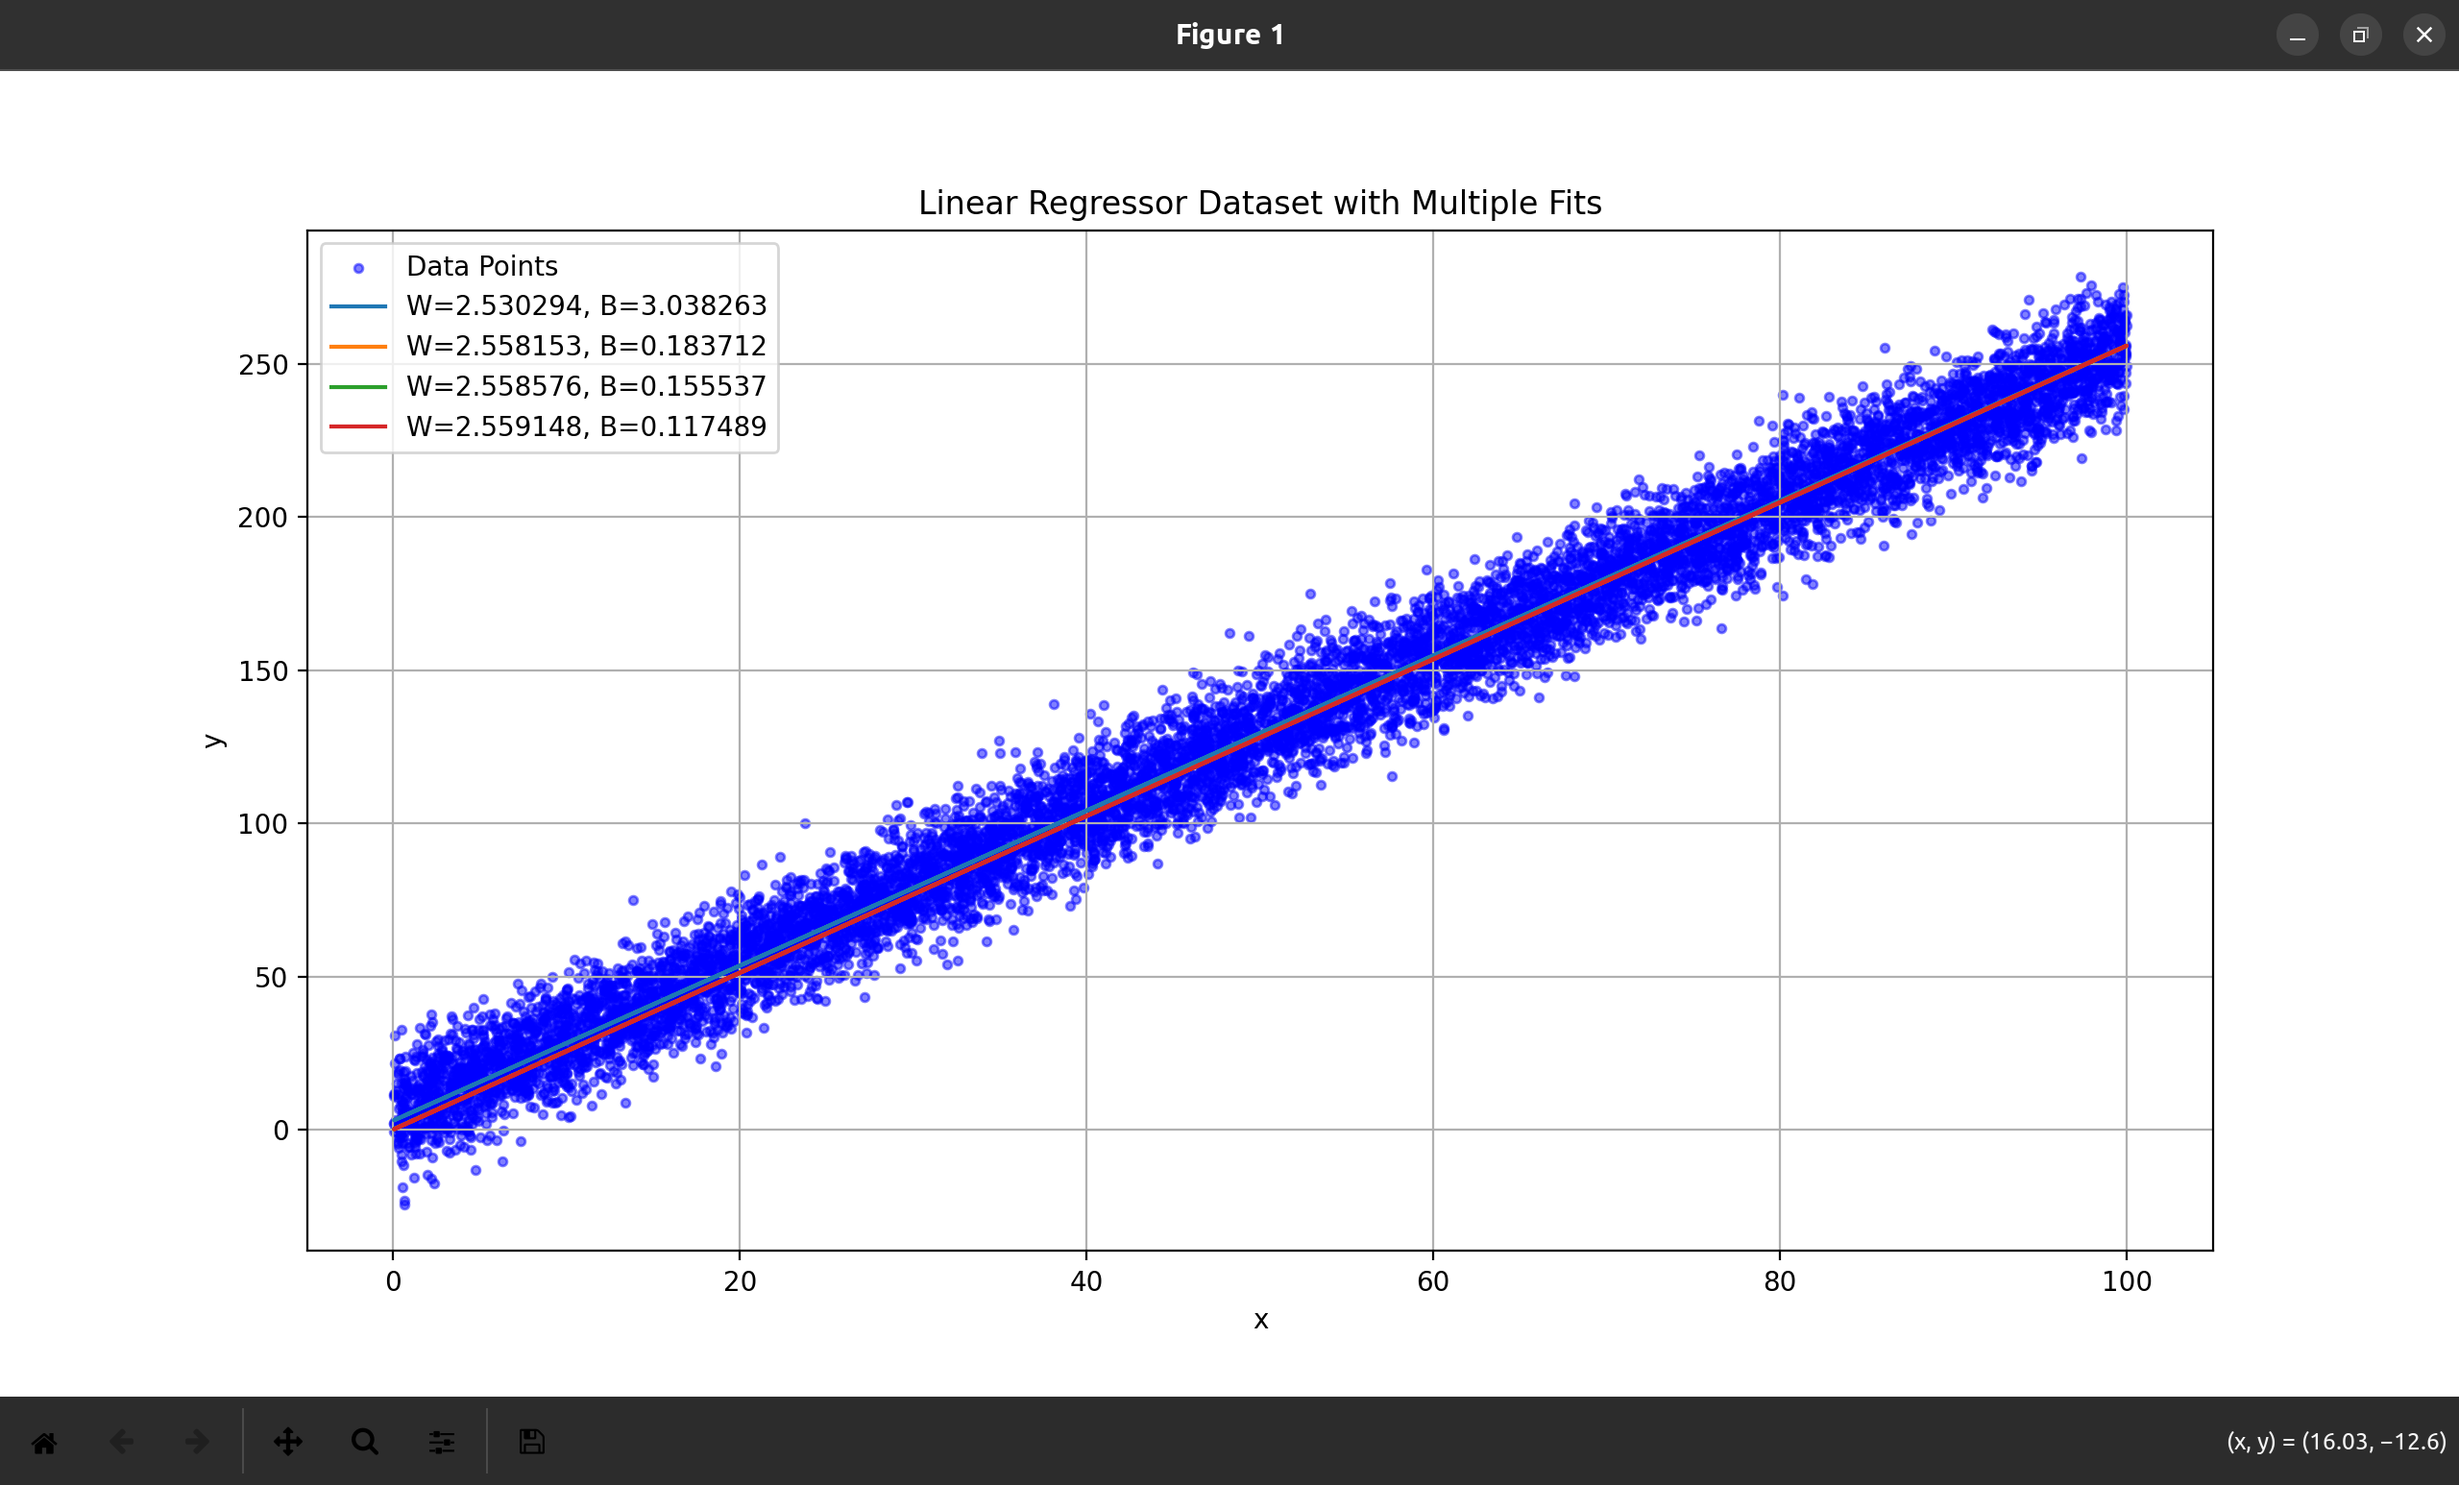
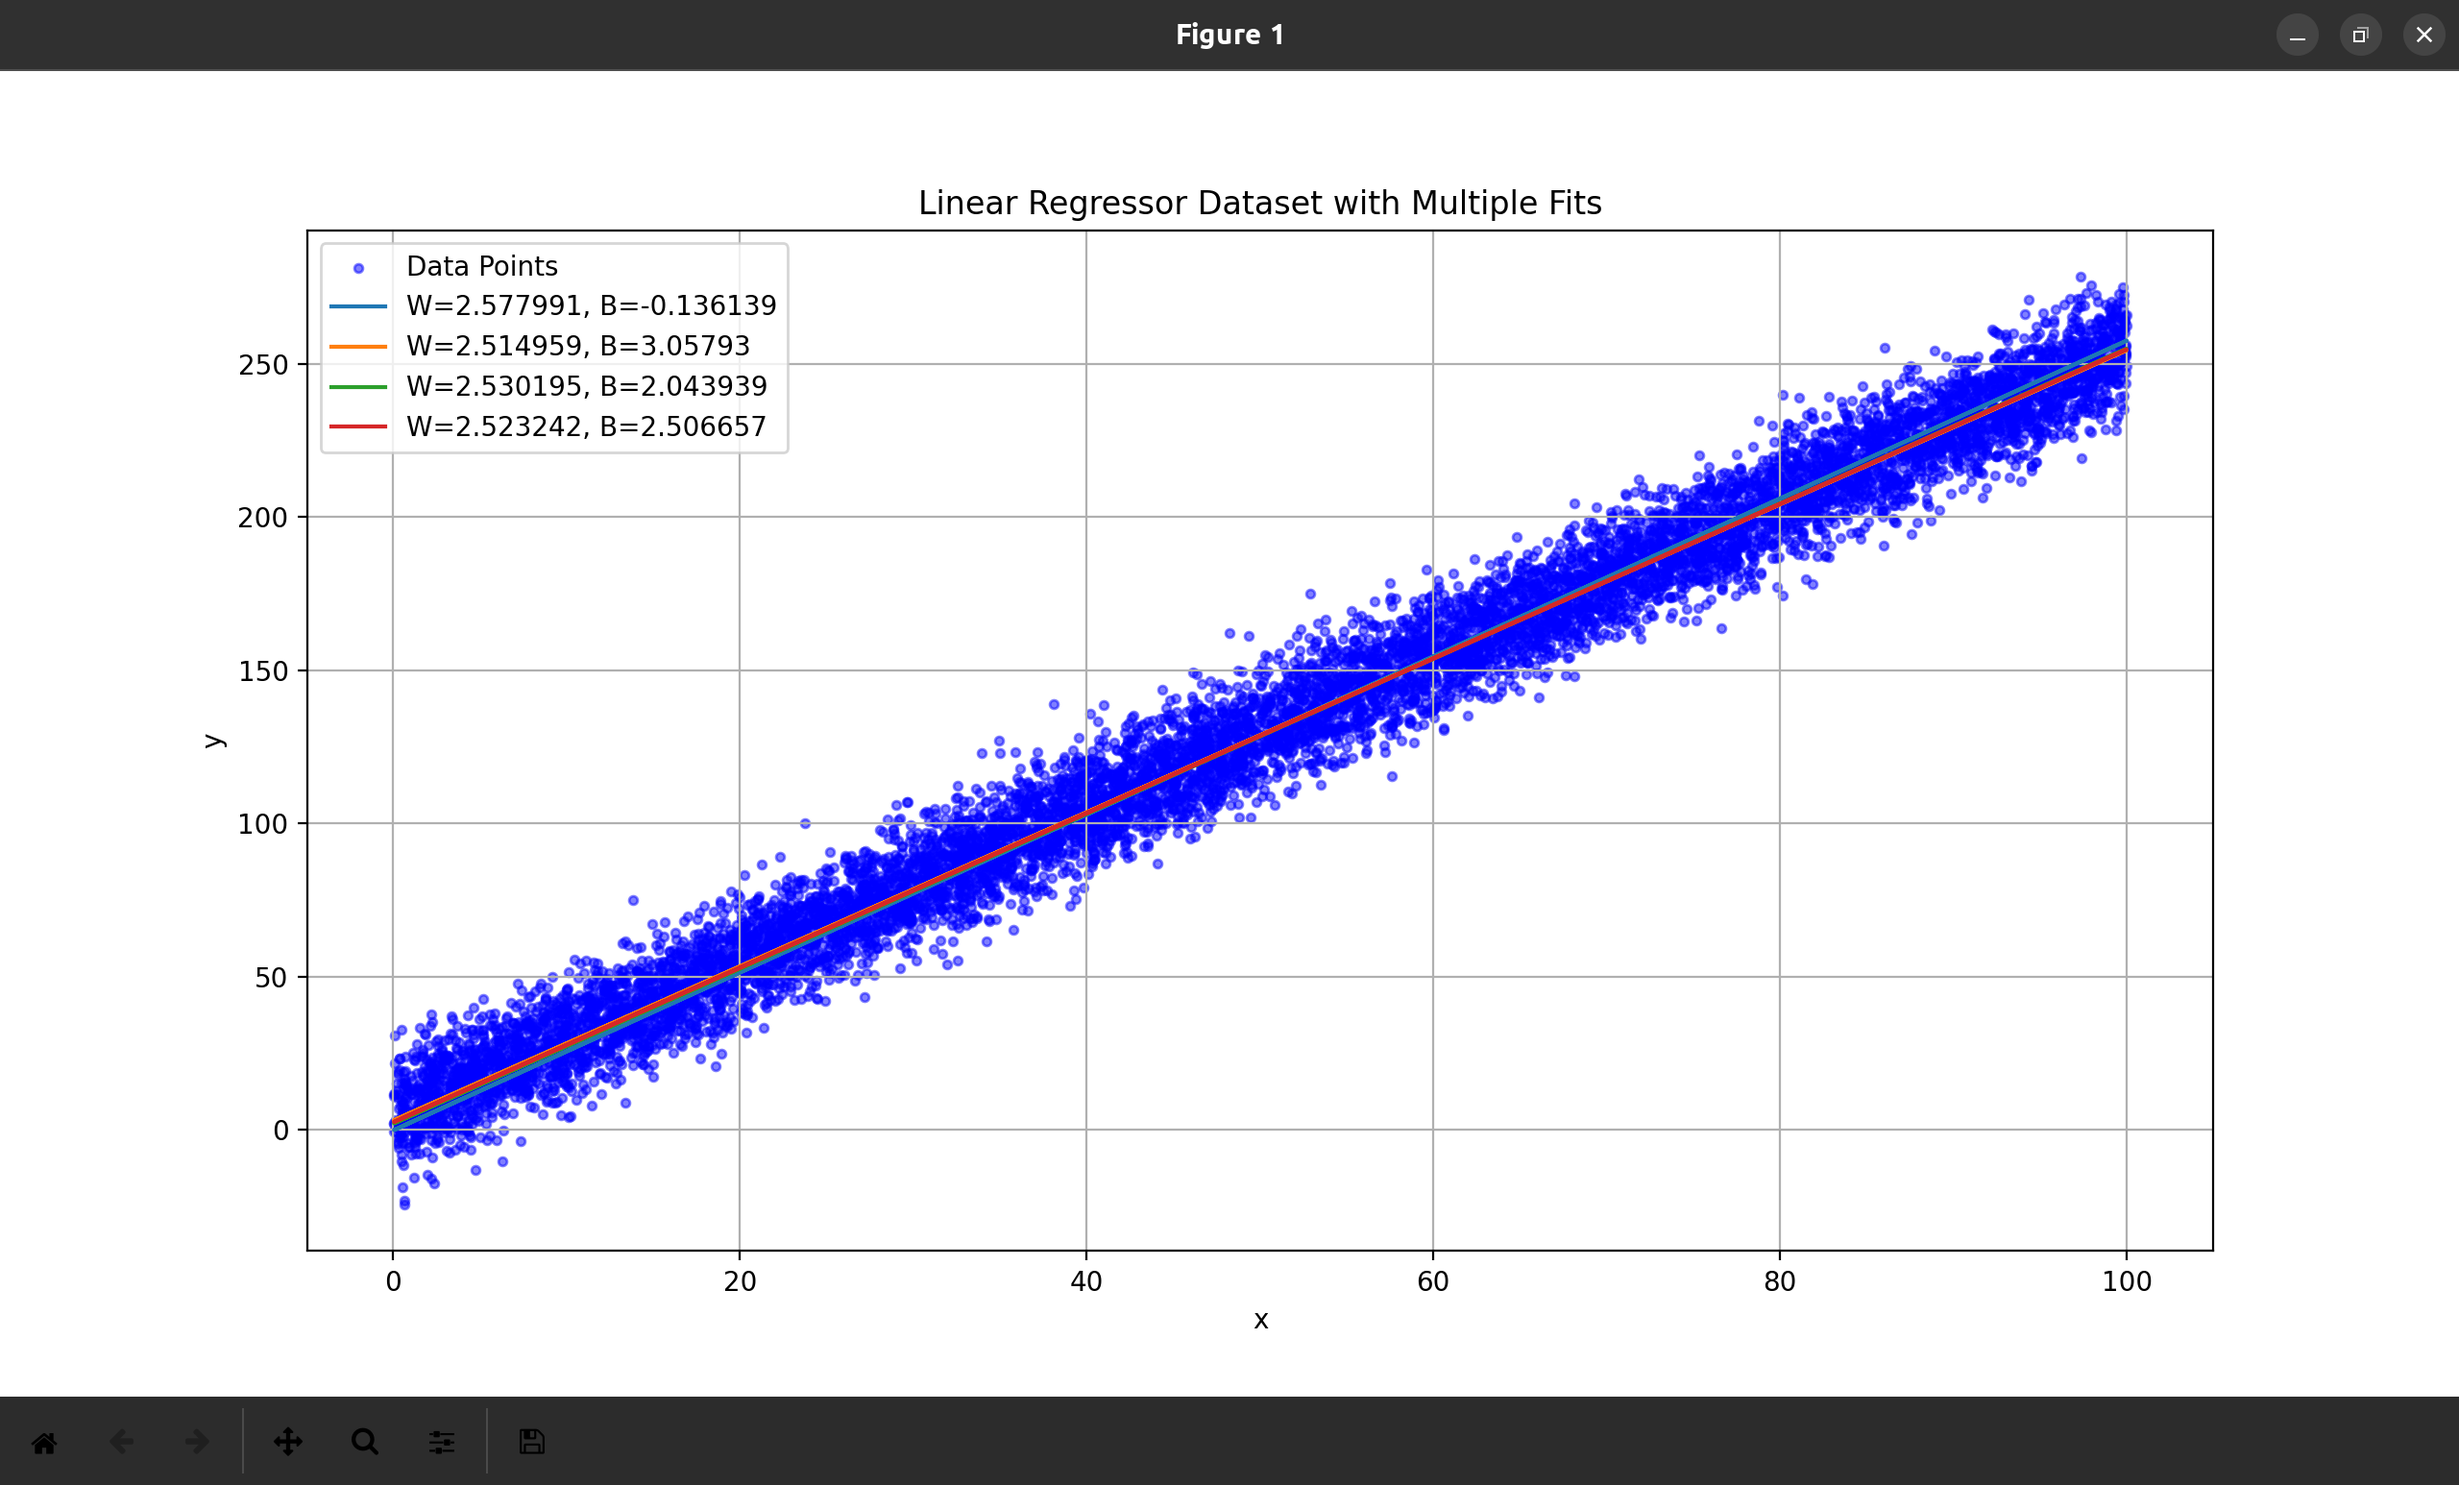
Updated results and README

diff --git a/linear_reg.cpp b/linear_reg.cpp
@@ -1,6 +1,5 @@
 #include <hpx/algorithm.hpp>
 #include <hpx/executors/execution_policy.hpp>
-#include <hpx/future.hpp>
 #include <hpx/init.hpp>
 #include <hpx/iostream.hpp>
 #include <hpx/parallel/algorithms/transform_reduce.hpp>
@@ -69,7 +68,7 @@ int hpx_main(int argc, char* argv[]) {
 
     std::uniform_real_distribution<float> distribution(-1.0, 1.0);
 
-    float W = distribution(gen), B = distribution(gen);
+    float W, B;
     float prev_W, prev_B;
 
     int N = 5000;
@@ -77,6 +76,8 @@ int hpx_main(int argc, char* argv[]) {
 
     // Sequential Gradient Descent - Using for loop
     hpx::util::perftests_report("Sequential GD, for-loop", "seq", 10, [&]{
+        W = distribution(gen), B = distribution(gen);
+        
         for (int k=0; k<N; k++) {
             float dj_dw = 0, dj_db = 0;
             for (int i=0; i<n; i++) {
@@ -95,10 +96,9 @@ int hpx_main(int argc, char* argv[]) {
     char const* fmt = "Final Parameters: W = {1}, B = {2}\n";
     hpx::util::format_to(std::cout, fmt, W, B);
 
-    W = distribution(gen), B = distribution(gen);
-
     // Gradient Descent - Using STL, seq
     hpx::util::perftests_report("Linear Regression GD, STL, seq", "seq  ", 10, [&]{
+        W = distribution(gen), B = distribution(gen);
         for (int k=0; k<N; k++) {
             auto res = std::transform_reduce(
                 D.begin(),
@@ -127,10 +127,10 @@ int hpx_main(int argc, char* argv[]) {
 
     hpx::util::format_to(std::cout, fmt, W, B);
 
-    W = distribution(gen), B = distribution(gen);
-
     // Gradient Descent - Using STL, par
     hpx::util::perftests_report("Linear Regression, GD, STL, par", "std::execution::par", 10, [&]{
+        W = distribution(gen), B = distribution(gen);
+
         for (int k=0; k<N; k++) {
             auto res = std::transform_reduce(
                 std::execution::par,
@@ -161,10 +161,10 @@ int hpx_main(int argc, char* argv[]) {
 
     hpx::util::format_to(std::cout, fmt, W, B);
 
-    W = distribution(gen), B = distribution(gen);
-
     // Gradient Descent, using HPX
     hpx::util::perftests_report("Linear Regression, GD, HPX, par", "hpx::execution::par", 10, [&]{
+        W = distribution(gen), B = distribution(gen);
+
         for (int k=0; k<N; k++) {
             auto res = hpx::transform_reduce(
                 hpx::execution::par,

diff --git a/test-linear-reg.py b/test-linear-reg.py
@@ -22,7 +22,9 @@ def plot_linear_regressor(dataset_path, parameter_pairs):
     plt.grid(True)
     plt.show()
 
+
 if __name__ == "__main__":
     dataset_path = sys.argv[1]  # Path to the dataset
-    parameter_pairs = [(2.530294, 3.038263), (2.558153, 0.183712), (2.558576, 0.155537), (2.559148, 0.117489)]  # List of (W, B) pairs
+    parameter_pairs = [(2.577991, -0.136139), (2.514959, 3.057930),
+                       (2.530195, 2.043939), (2.523242, 2.506657)]  # List of (W, B) pairs
     plot_linear_regressor(dataset_path, parameter_pairs)

diff --git a/README.md b/README.md
@@ -16,6 +16,8 @@ cmake --build build
 ### 1. Simple Linear Regression (One Variable), using Gradient Descent
 [linear_reg.cpp](./linear_reg.cpp)
 
+<img src="https://miro.medium.com/v2/resize:fit:900/1*G3evFxIAlDchOx5Wl7bV5g.png" width="100%">
+
 - Linear Regression GD, seq for-loop: Used a classic for loop for performing Gradient Descent (GD)
 - Linear Regression GD, STL, seq: Using [`std::transform_reduce`](https://en.cppreference.com/w/cpp/algorithm/transform_reduce)
 - Linear Regression GD, STL, par: Using `std::transform_reduce` with [`std::execution::par`](https://en.cppreference.com/w/cpp/algorithm/execution_policy_tag) execution policy
@@ -23,32 +25,35 @@ cmake --build build
 
 Results with [dataset containing 10000 points](./datasets/linear_regressor_dataset_10000.csv):
 ```sh
-Final Parameters: W = 2.530294, B = 3.038263
-Final Parameters: W = 2.558153, B = 0.183712
-Final Parameters: W = 2.558576, B = 0.155537
-Final Parameters: W = 2.559148, B = 0.117489
-
+$ ./build/linear_reg datasets/linear_regressor_dataset_10000.csv
+Final Parameters: W = 2.577991, B = -0.136139
+Final Parameters: W = 2.514959, B = 3.057930
+Final Parameters: W = 2.530195, B = 2.043939
+Final Parameters: W = 2.523242, B = 2.506657
 Results:
 
 name: Sequential GD, for-loop,
 executor: seq,
-average: 0.742246513333333
+average: 0.72105570925
 
 
 name: Linear Regression GD, STL, seq,
-executor: seq,
-average: 0.976717908291667
+executor: seq  ,
+average: 0.961342297166667
 
 
 name: Linear Regression, GD, STL, par,
 executor: std::execution::par,
-average: 0.975341845875
+average: 0.945831261333333
 
 
 name: Linear Regression, GD, HPX, par,
 executor: hpx::execution::par,
-average: 0.62639202725
+average: 0.51301071275
+
 ```
+
+Note: Execution time of each implementation is averaged for 10 runs
 
 Plot:
 <img src="./assets/linear_reg.png" width="100%">
